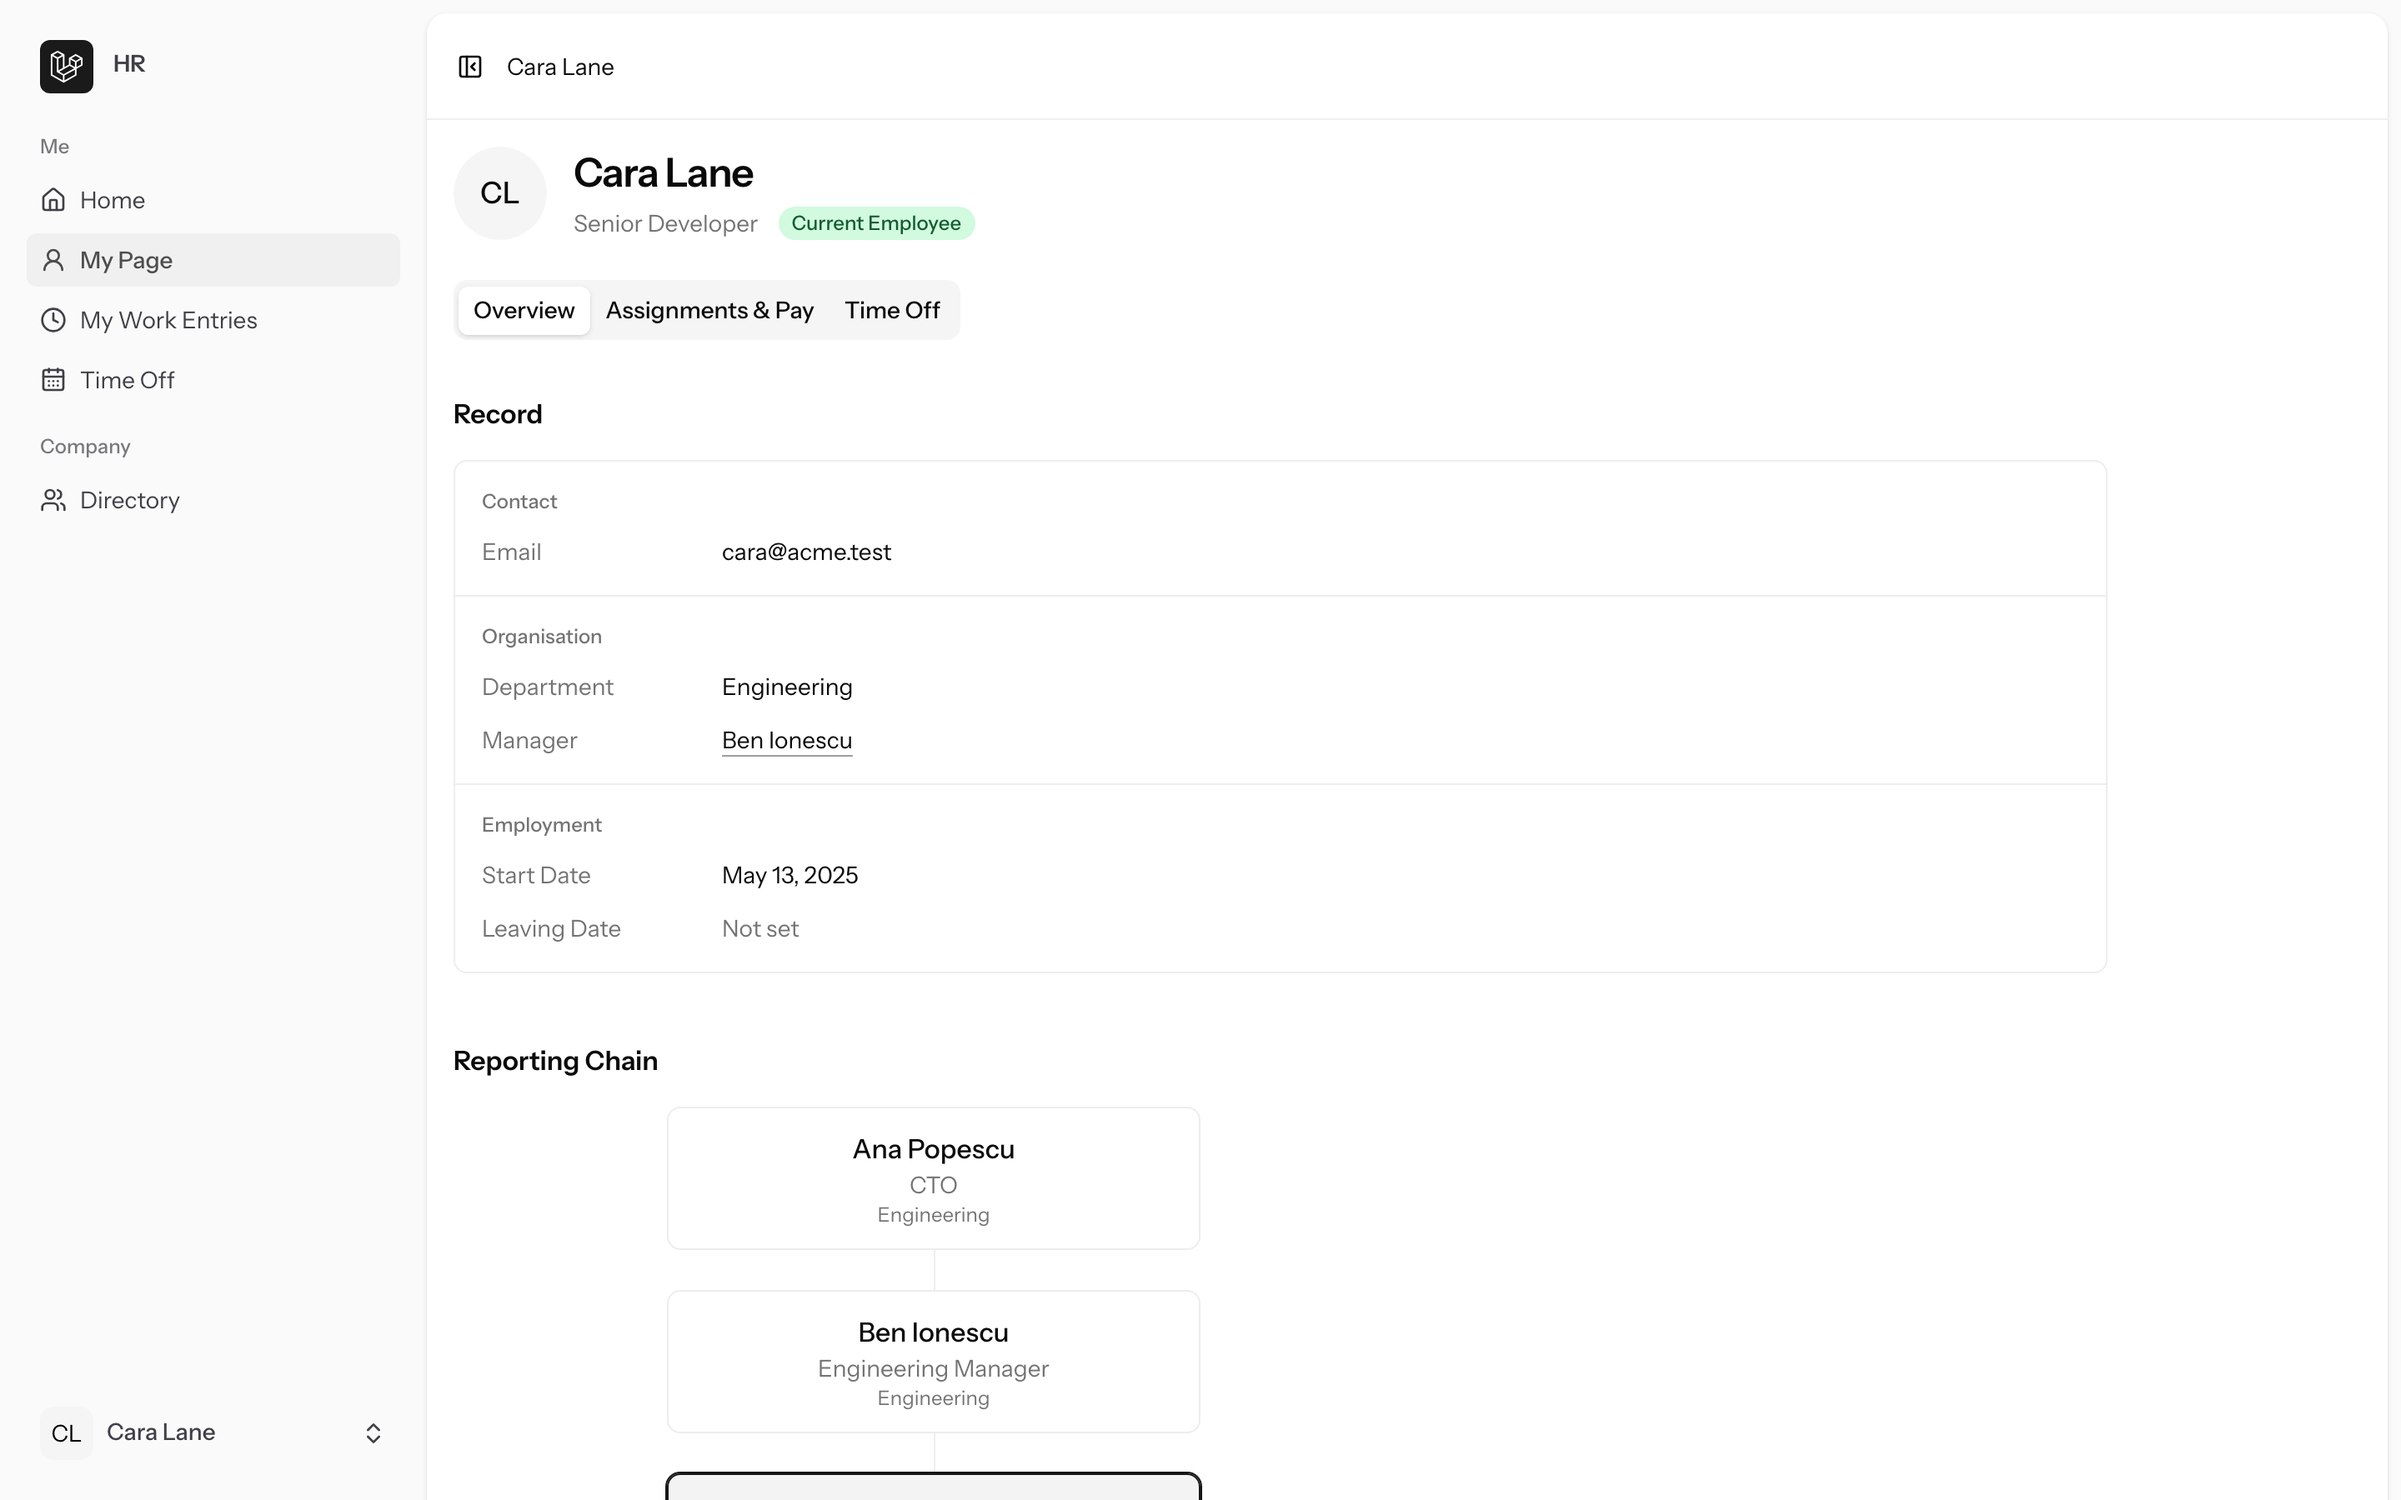
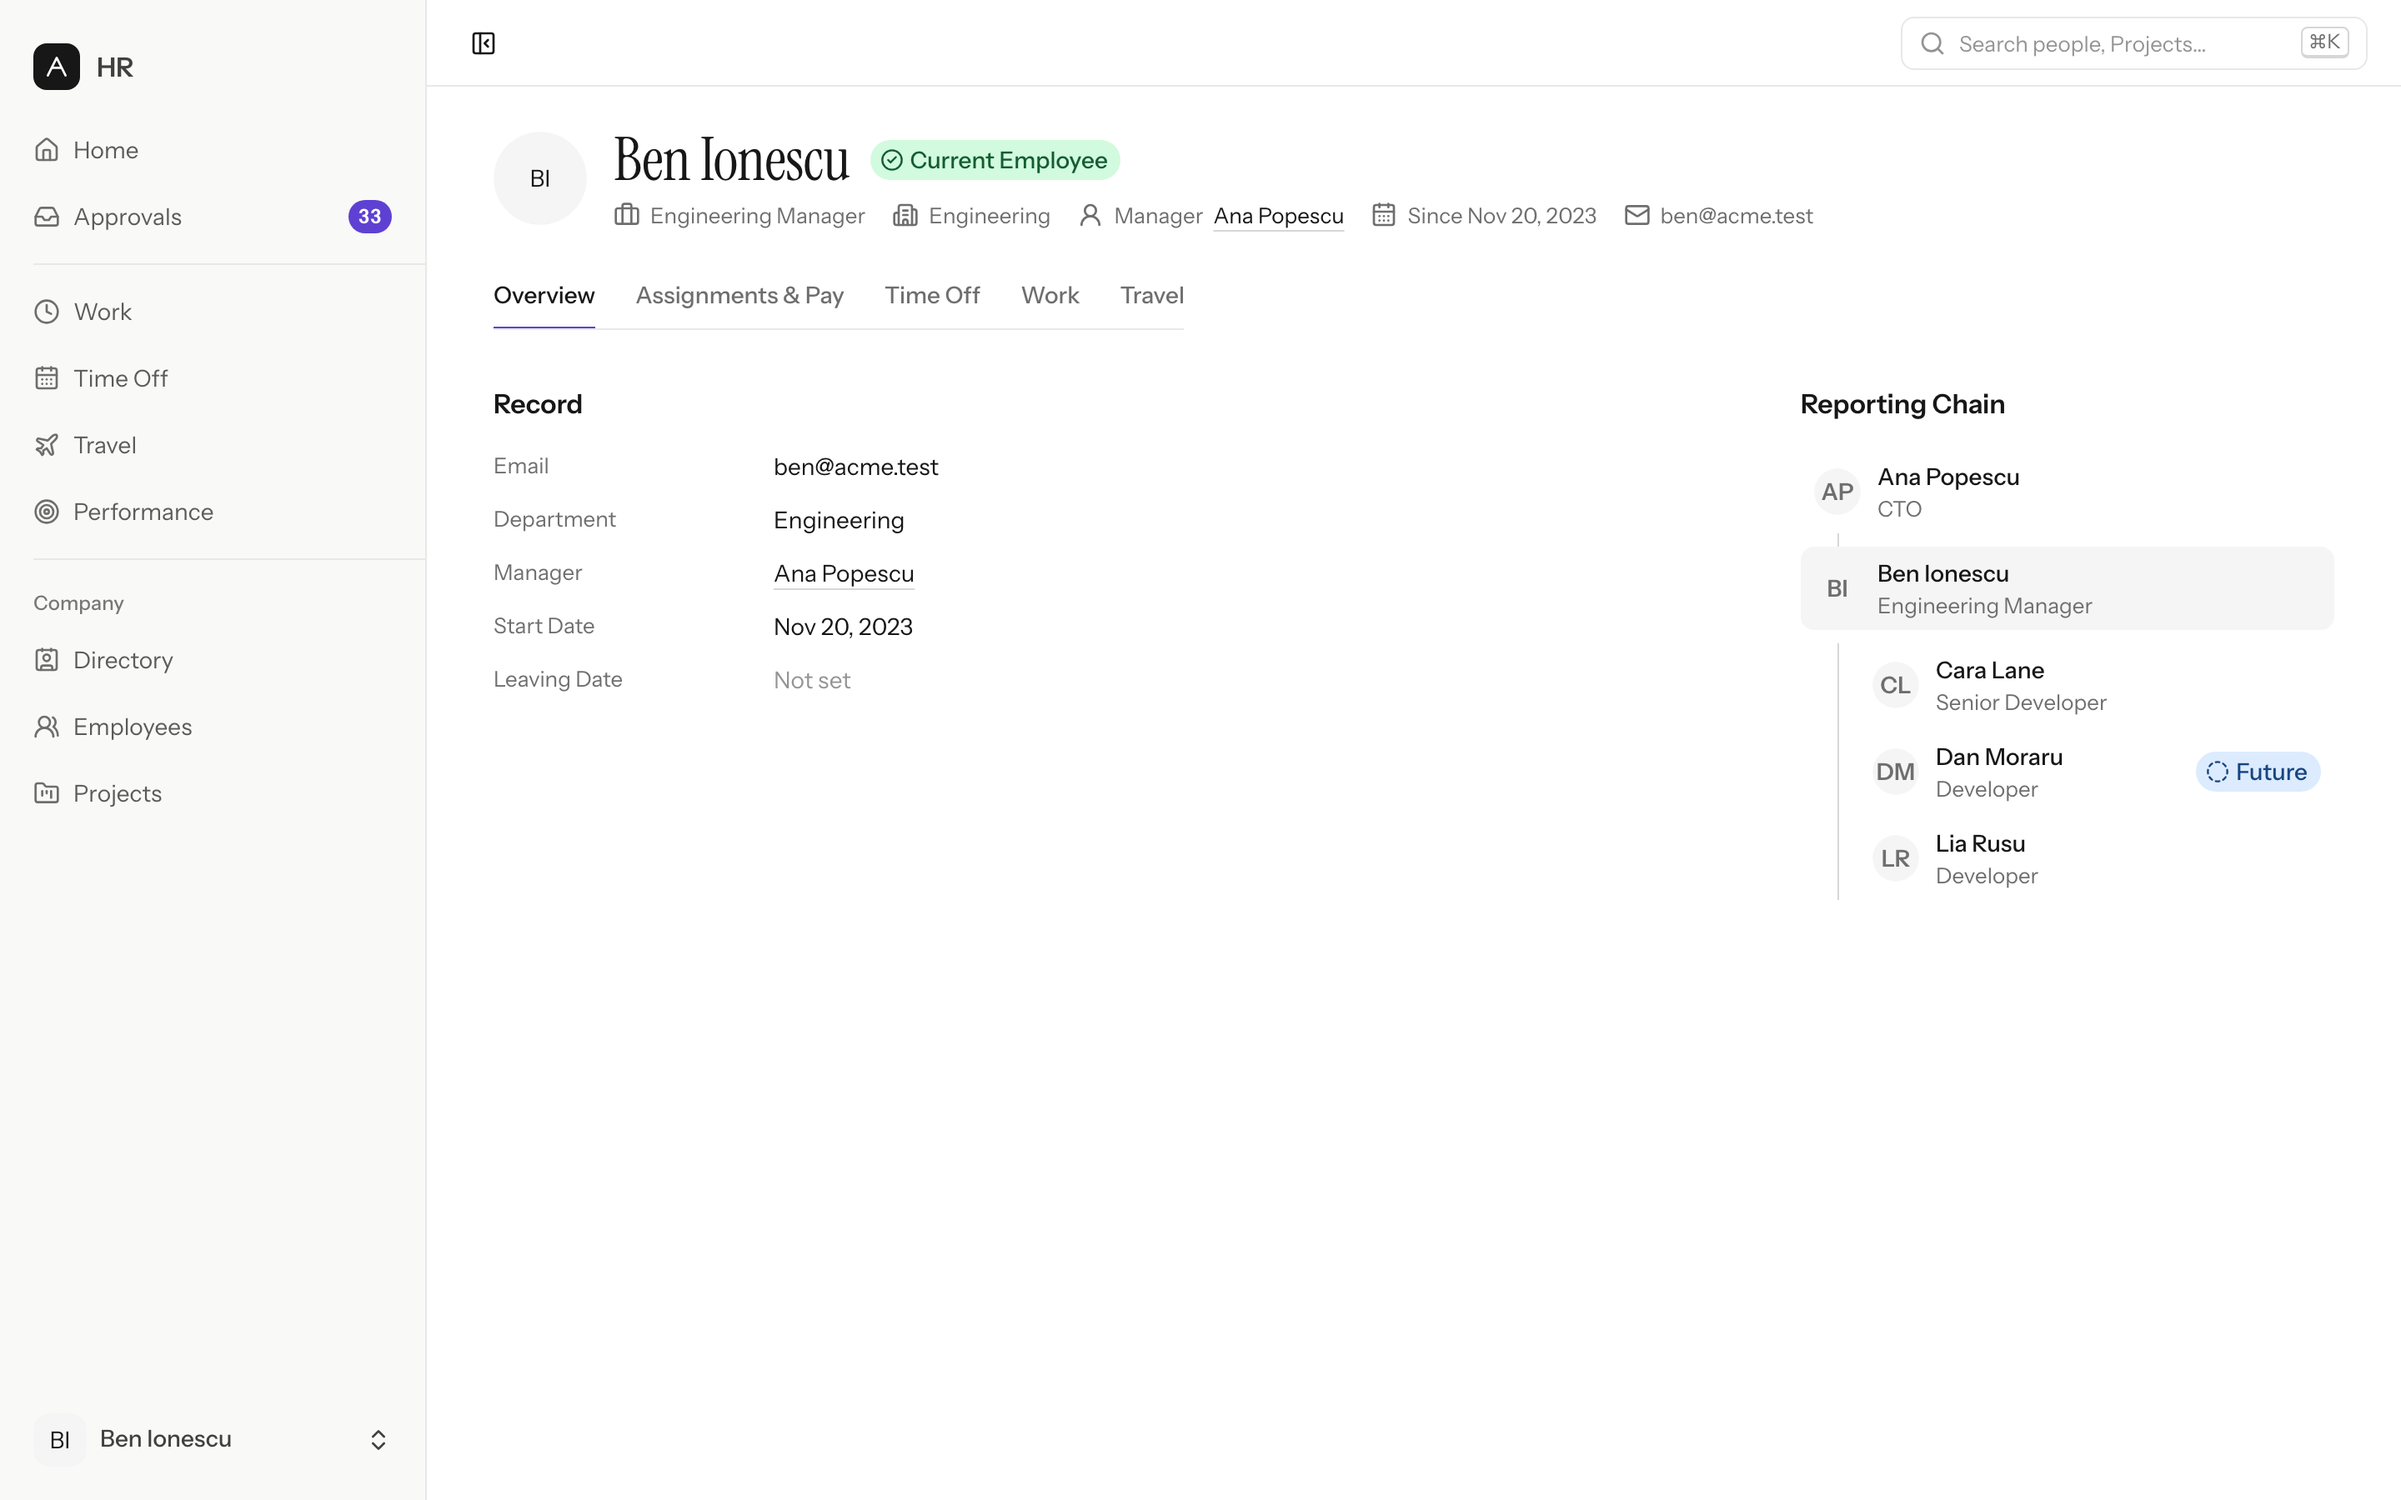
README: cover Travel, Performance and the redesign
Adds Travel and Performance to the feature list, mentions Home,
Approvals, the Directory and the command menu, points to the design
system, and retakes every screenshot from the redesigned app.

Closes #447

diff --git a/README.md b/README.md
@@ -4,34 +4,50 @@ An HR system that a company runs for itself, one installation per company, to ma
 
 - **Employees**: Future, current and Former Employees, each with a Manager, a Department and a Reporting Chain.
 - **Projects and Pay**: Clients, Projects and Assignments, with Pay attached to each Assignment.
-- **Work Entries**: Employees log their time, and their Manager approves it.
+- **Work Entries**: Employees log their time, and their Manager approves each Work Entry.
 - **Time Off**: paid and unpaid requests, approved by the Manager and counted against each Employee's Paid Days.
+- **Travel**: Travel Requests approved by the Manager, then Travel Expenses with receipts, each approved on its own and exported for pay-back.
+- **Performance**: one Performance Evaluation per Employee per year, holding the Goals their Manager gives them, with Progress, Comments and an Outcome.
 - **Access**: custom Roles and Permissions, with an Access Log.
 
-The domain terms are defined in [`GLOSSARY.md`](GLOSSARY.md), and the design decisions are recorded in [`docs/adr/`](docs/adr).
+Every Employee starts on **Home**, which shows what's waiting for them and their own hours and Time Off. Managers decide everything in one **Approvals** inbox. The **Directory** lists everyone, and the command menu (⌘K) finds people and Projects from any page.
+
+The domain terms are defined in [`GLOSSARY.md`](GLOSSARY.md), and the design decisions are recorded in [`docs/adr/`](docs/adr). The UI follows the design system in [`docs/design-system/`](docs/design-system).
 
 ## Screenshots
 
-**My Page**: an Employee's record and Reporting Chain, with tabs for Assignments & Pay and Time Off.
+**Home**: what's waiting for a Manager, what was declined and why, and their own hours and Time Off.
 
-![My Page](docs/screenshots/my-page.png)
+![Home](docs/screenshots/home.png)
 
-**My Work Entries**, as a list for one week:
+**Work**: an Employee's Work Entries, as a list for one week:
 
-![My Work Entries, list view](docs/screenshots/work-entries-list.png)
+![Work, list view](docs/screenshots/work-entries-list.png)
 
 and as a calendar for one month:
 
-![My Work Entries, calendar view](docs/screenshots/work-entries-calendar.png)
+![Work, calendar view](docs/screenshots/work-entries-calendar.png)
 
-**Approvals**: a Manager's Pending Work Entries and Time Off, approved or declined in bulk.
+**Approvals**: a Manager's Pending Work Entries, Time Off, Travel Requests and Travel Expenses in one place.
 
 ![Approvals](docs/screenshots/approvals.png)
+
+**Travel Request**: an Approved Travel Request with its Travel Expenses, each Pending, Approved or Declined on its own.
+
+![Travel Request](docs/screenshots/travel-request.png)
+
+**Performance Evaluation**: a Manager's view of a Report's Goals for the year, with Progress, Comments and Outcomes.
+
+![Performance Evaluation](docs/screenshots/performance-evaluation.png)
+
+**Employee page**: an Employee's record and Reporting Chain, with tabs for Assignments & Pay, Time Off, Work and Travel.
+
+![Employee page](docs/screenshots/my-page.png)
 
 ## Tech stack
 
 - **Backend**: PHP 8.4, Laravel 13, Laravel Fortify (authentication), PostgreSQL
-- **Frontend**: Inertia v3, Vue 3, TypeScript, Tailwind CSS 4, Laravel Wayfinder (typed routes)
+- **Frontend**: Inertia v3, Vue 3, TypeScript, Tailwind CSS 4, Reka UI, Laravel Wayfinder (typed routes)
 - **Tooling**: Vite+, Pest 5 (including browser tests), Larastan, Pint
 
 ## Running locally
